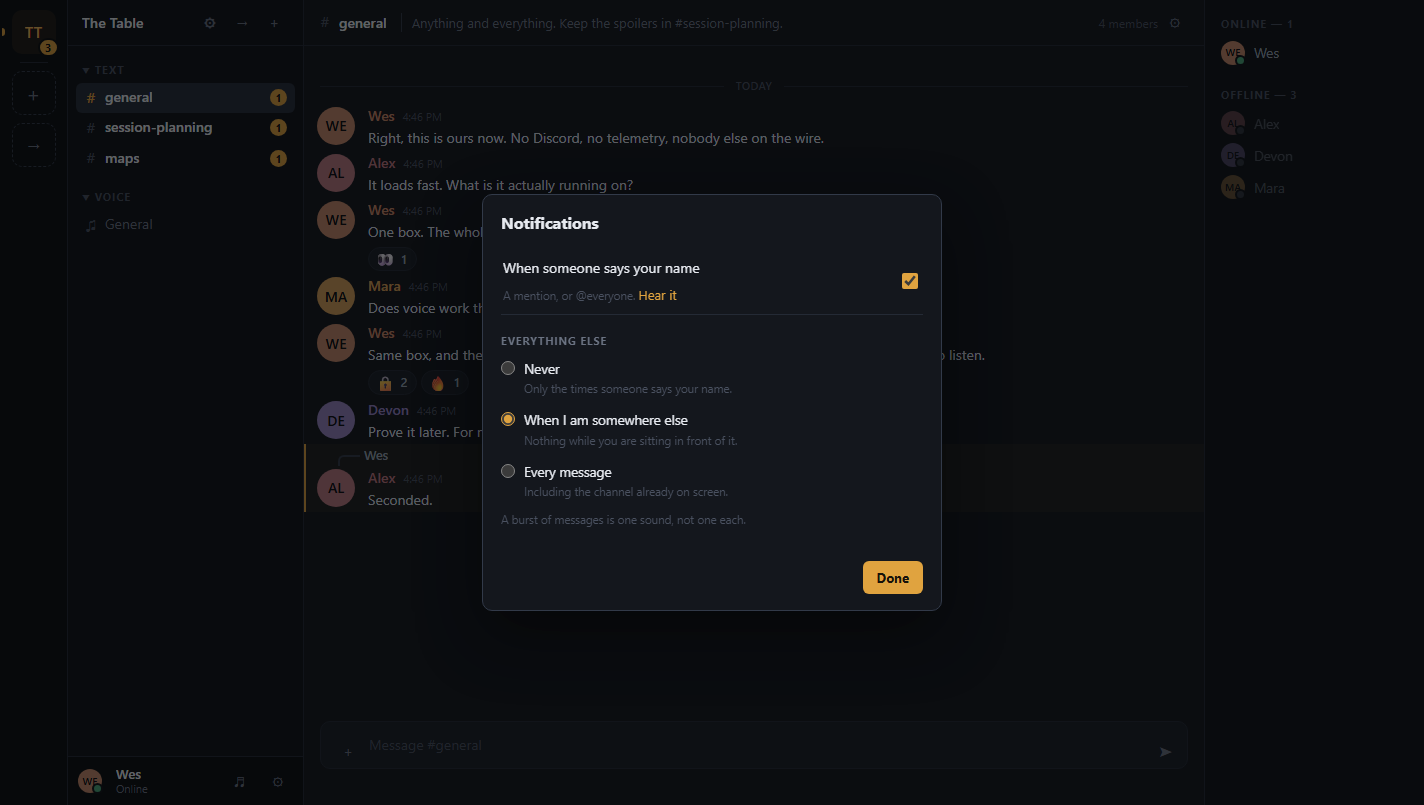
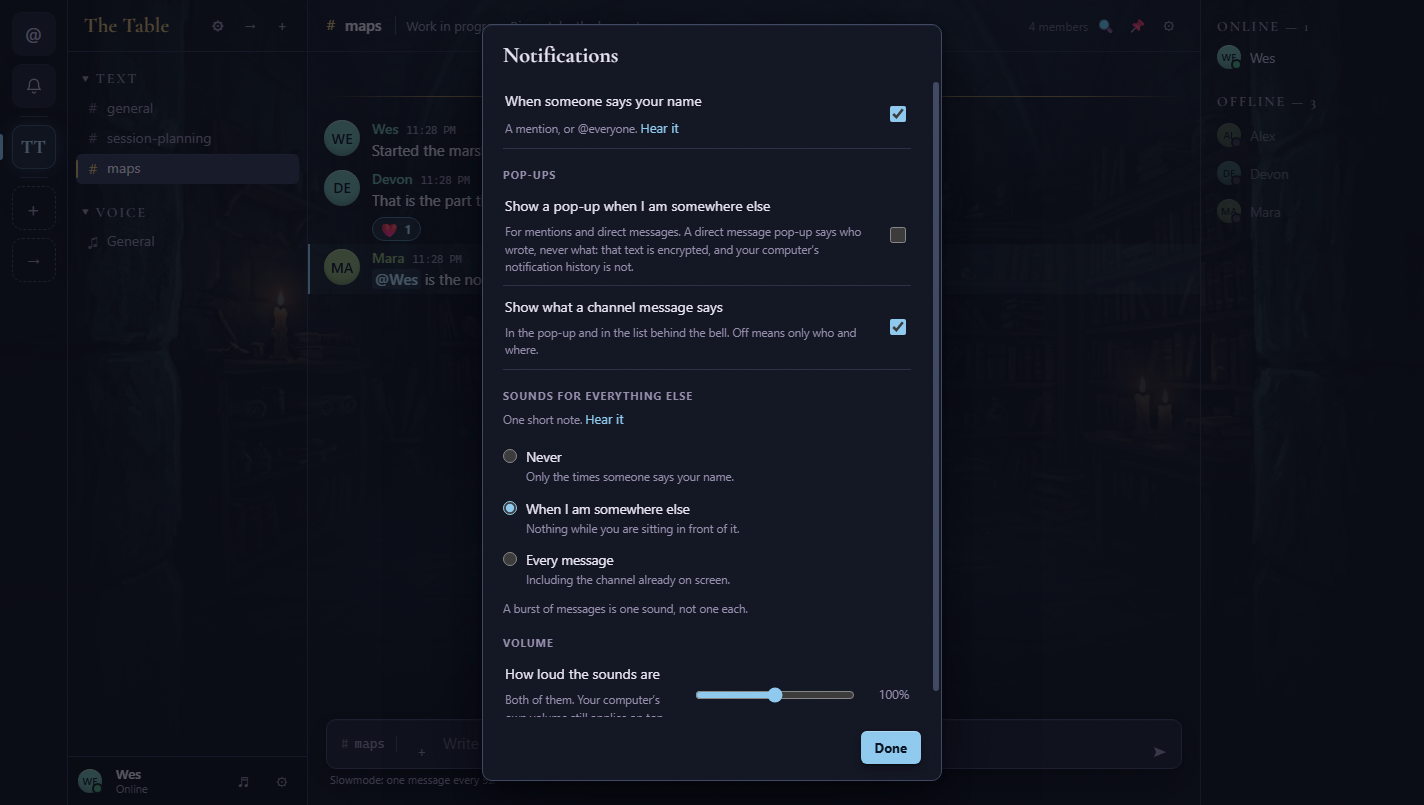
Notification sounds have a volume slider, and both start a step louder
Wes, 2026-09-22: "lets allow users to adjust the notification sounds.
They are a little quite right now." Notifications settings gains a
Volume row, 0 to 200 percent, kept in this browser with the rest of the
notify prefs; letting go of the slider plays the mention sound. The
designed levels went up by half. A saved volume off the slider's range
is clamped, junk becomes 1; tested.

Claude-Session: https://claude.ai/code/session_01TXSivignArRA5Z5Uh8Z6MY

diff --git a/web/src/lib/notify.ts b/web/src/lib/notify.ts
@@ -24,9 +24,16 @@ export interface NotifyPrefs {
   mutedServers: string[];
   /** Channel ids muted individually, whether or not their server is. */
   mutedChannels: string[];
+  /** How loud both sounds are: 1 is as designed, 0 is silent, 2 is twice the level. */
+  volume: number;
 }
 
-const DEFAULTS: NotifyPrefs = { mention: true, message: 'unfocused', mutedServers: [], mutedChannels: [] };
+const DEFAULTS: NotifyPrefs = { mention: true, message: 'unfocused', mutedServers: [], mutedChannels: [], volume: 1 };
+
+/** A stored volume is trusted only if it is a number on the slider's range. */
+function clampVolume(value: unknown): number {
+  return typeof value === 'number' && Number.isFinite(value) ? Math.min(2, Math.max(0, value)) : DEFAULTS.volume;
+}
 const STORAGE_KEY = 'scryproof.notify.v1';
 
 /** Exported so a prefs blob (or an old one missing the newer fields) can be checked directly, in tests and elsewhere. */
@@ -34,7 +41,8 @@ export function load(): NotifyPrefs {
   try {
     const raw = localStorage.getItem(STORAGE_KEY);
     if (!raw) return DEFAULTS;
-    return { ...DEFAULTS, ...(JSON.parse(raw) as Partial<NotifyPrefs>) };
+    const stored = JSON.parse(raw) as Partial<NotifyPrefs>;
+    return { ...DEFAULTS, ...stored, volume: clampVolume(stored.volume) };
   } catch {
     return DEFAULTS;
   }
@@ -125,6 +133,9 @@ export function soundFor(input: SoundContext): 'mention' | 'message' | null {
 function tones(notes: readonly number[], peak: number): void {
   const context = audioContext();
   const start = context.currentTime + 0.01;
+  // The slider scales the designed level; at 2 the sine still cannot clip.
+  peak *= current.volume;
+  if (peak <= 0) return;
   notes.forEach((frequency, index) => {
     const oscillator = context.createOscillator();
     const envelope = context.createGain();
@@ -142,9 +153,10 @@ function tones(notes: readonly number[], peak: number): void {
 
 export const notifySounds = {
   /** Two notes rising. It has to be findable across a room. */
-  mention: () => tones([698.46, 1046.5], 0.1),
-  /** One short note, quiet enough to hear thirty of without minding. */
-  message: () => tones([880], 0.045),
+  mention: () => tones([698.46, 1046.5], 0.16),
+  /** One short note, quiet enough to hear thirty of without minding. Both
+      levels went up by half on 2026-09-22 (Wes: "a little quiet"). */
+  message: () => tones([880], 0.07),
 };
 
 /**

diff --git a/web/src/components/NotifySettings.tsx b/web/src/components/NotifySettings.tsx
@@ -109,6 +109,19 @@ export function NotifySettings({ onClose }: { onClose: () => void }) {
 
       <div className="settings-subhead">Sounds for everything else</div>
       <div className="radio-group">
+        <p className="field-note">
+          One short note.{' '}
+          <button
+            type="button"
+            className="link-button"
+            onClick={(event) => {
+              event.preventDefault();
+              play('message');
+            }}
+          >
+            Hear it
+          </button>
+        </p>
         {MESSAGE_CHOICES.map(([value, label, note]) => (
           <label className="radio-row" key={value}>
             <input
@@ -126,6 +139,29 @@ export function NotifySettings({ onClose }: { onClose: () => void }) {
         <p className="field-note">
           A burst of messages is one sound, not one each.
         </p>
+      </div>
+
+      <div className="settings-subhead">Volume</div>
+      <div className="toggle-row">
+        <span>
+          How loud the sounds are
+          <span className="field-note">Both of them. Your computer&rsquo;s own volume still applies on top.</span>
+        </span>
+        <span className="voice-volume">
+          <input
+            type="range"
+            className="voice-range"
+            min={0}
+            max={200}
+            step={5}
+            value={Math.round(prefs.volume * 100)}
+            onChange={(event) => notifyPrefs.set({ volume: Number(event.target.value) / 100 })}
+            onMouseUp={() => play('mention')}
+            onKeyUp={() => play('mention')}
+            aria-label="Volume of the message and mention sounds"
+          />
+          <span className="voice-volume-number">{Math.round(prefs.volume * 100)}%</span>
+        </span>
       </div>
 
       {mutedServers.length > 0 || mutedChannels.length > 0 ? (

diff --git a/web/src/tests/notify.test.ts b/web/src/tests/notify.test.ts
@@ -126,7 +126,22 @@ describe('loading saved prefs', () => {
     const previous = globalWithStorage.localStorage;
     globalWithStorage.localStorage = fakeStorage(JSON.stringify({ mention: false, message: 'off' }));
     try {
-      assert.deepEqual(load(), { mention: false, message: 'off', mutedServers: [], mutedChannels: [] });
+      assert.deepEqual(load(), { mention: false, message: 'off', mutedServers: [], mutedChannels: [], volume: 1 });
+    } finally {
+      globalWithStorage.localStorage = previous;
+    }
+  });
+
+  it('keeps a saved volume only when it is a number on the slider', () => {
+    const globalWithStorage = globalThis as { localStorage?: unknown };
+    const previous = globalWithStorage.localStorage;
+    try {
+      globalWithStorage.localStorage = fakeStorage(JSON.stringify({ volume: 1.5 }));
+      assert.equal(load().volume, 1.5);
+      globalWithStorage.localStorage = fakeStorage(JSON.stringify({ volume: 9 }));
+      assert.equal(load().volume, 2);
+      globalWithStorage.localStorage = fakeStorage(JSON.stringify({ volume: 'loud' }));
+      assert.equal(load().volume, 1);
     } finally {
       globalWithStorage.localStorage = previous;
     }
@@ -137,7 +152,7 @@ describe('loading saved prefs', () => {
     const previous = globalWithStorage.localStorage;
     globalWithStorage.localStorage = fakeStorage(null);
     try {
-      assert.deepEqual(load(), { mention: true, message: 'unfocused', mutedServers: [], mutedChannels: [] });
+      assert.deepEqual(load(), { mention: true, message: 'unfocused', mutedServers: [], mutedChannels: [], volume: 1 });
     } finally {
       globalWithStorage.localStorage = previous;
     }
